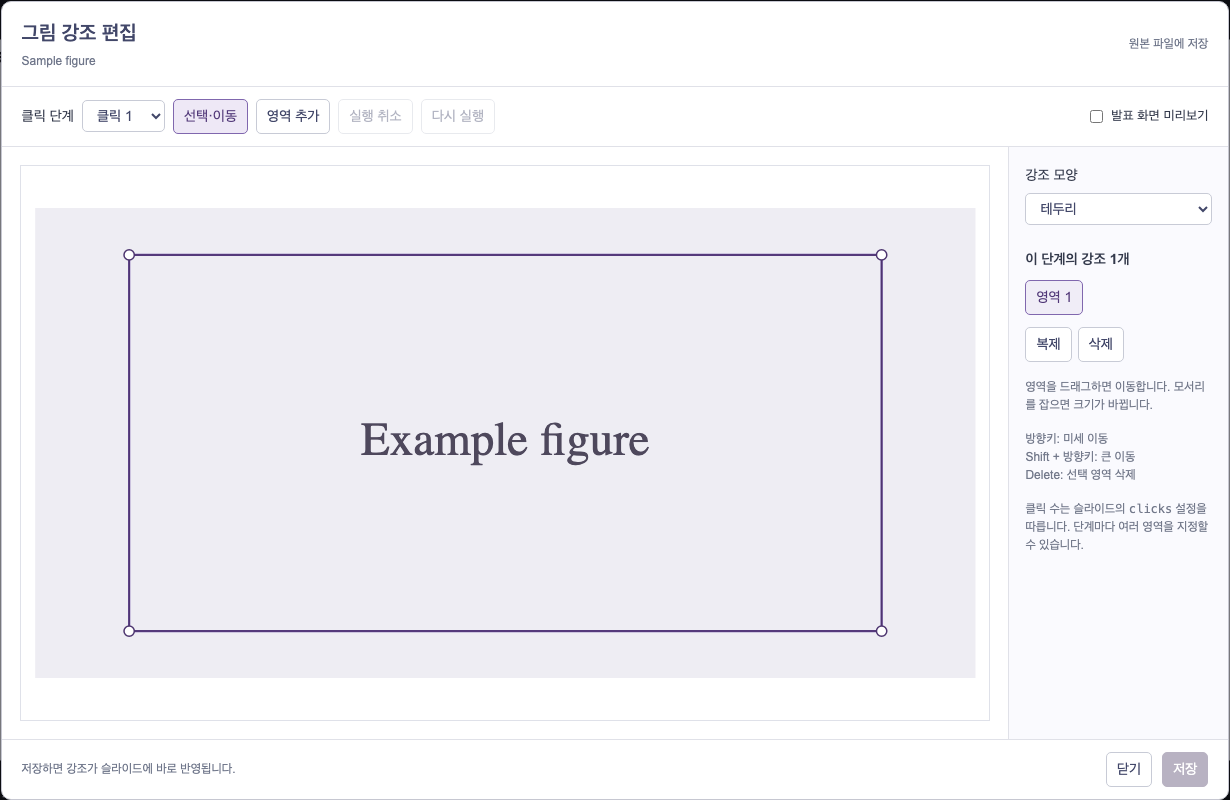
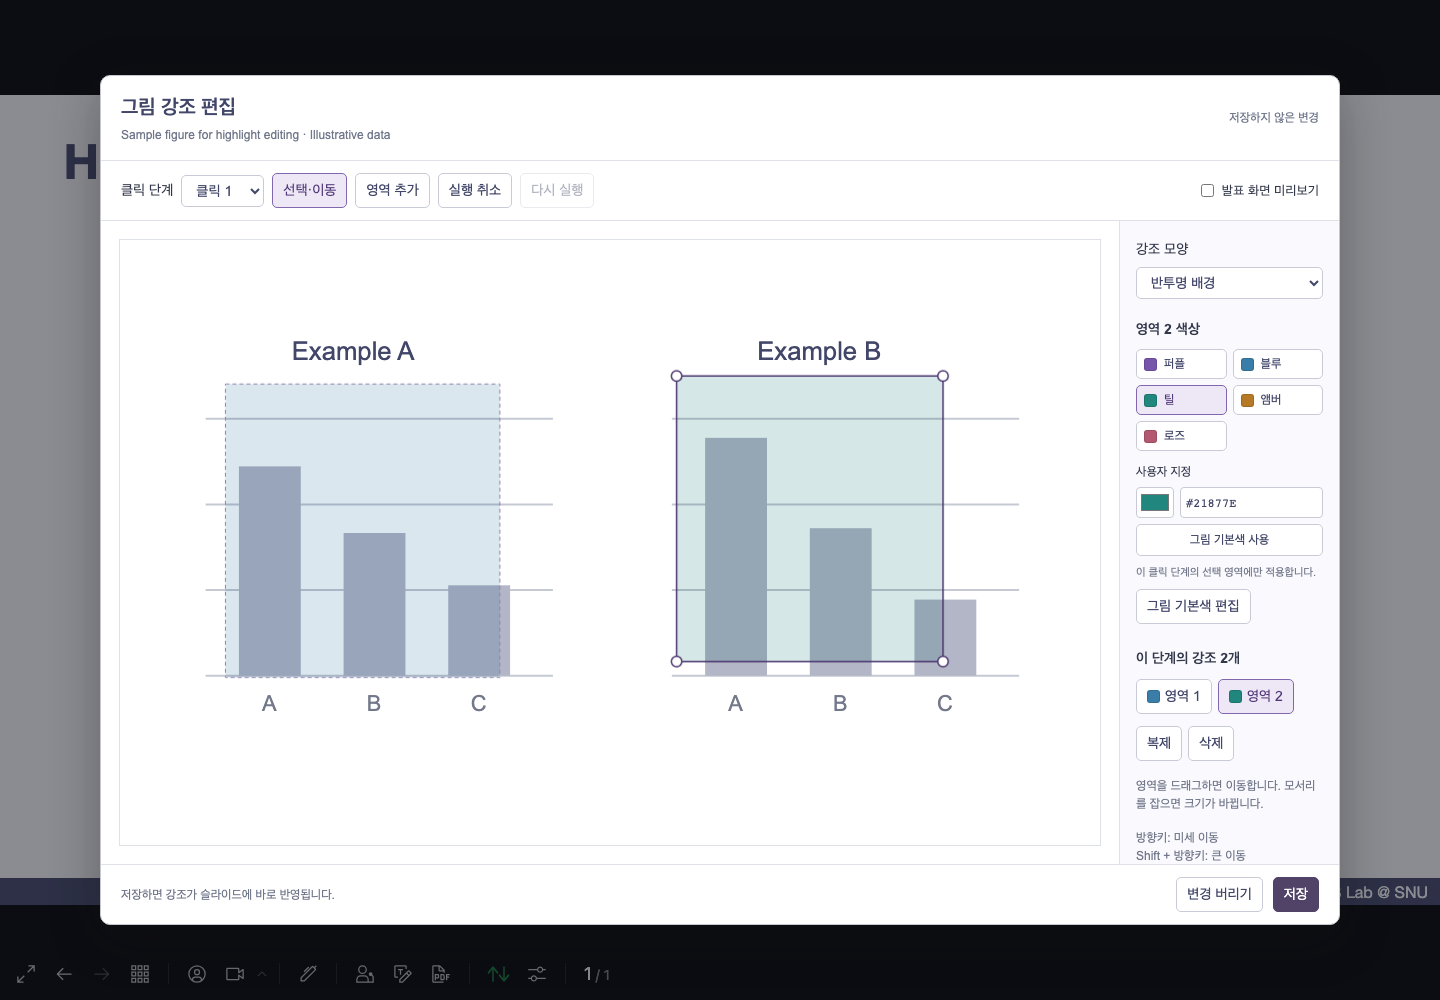
Add preset and custom colors to figure highlights

diff --git a/editor/FigureEditor.vue b/editor/FigureEditor.vue
@@ -1,12 +1,16 @@
 <script setup>
 import { computed, nextTick, onBeforeUnmount, onMounted, ref } from 'vue'
+import { DEFAULT_HIGHLIGHT, HIGHLIGHT_PRESETS, isHighlightColor, highlightStyle } from '../lib/colors.mjs'
 const props = defineProps({ slideId:String, src:String, href:String, caption:String, ratio:Number, initialStep:Number })
 const emit = defineEmits(['close', 'saved'])
 const dialog = ref(), svg = ref(), loading = ref(true), saving = ref(false), error = ref('')
 const step = ref(0), selected = ref(-1), mode = ref('select'), style = ref('wash'), regions = ref([[]])
+const focusColor = ref(''), themeColor = ref(DEFAULT_HIGHLIGHT)
+const currentColor = computed(() => boxes.value[selected.value]?.[4] || focusColor.value || themeColor.value)
+const inheritsColor = computed(() => selected.value >= 0 ? !boxes.value[selected.value]?.[4] : !focusColor.value)
 const revision = ref(''), baseline = ref(''), history = ref([]), future = ref([]), preview = ref(false)
 let gesture = null, restoreFocus, previousOverflow
-const state = () => JSON.stringify({ regions:regions.value, focusStyle:style.value })
+const state = () => JSON.stringify({ regions:regions.value, focusStyle:style.value, focusColor:focusColor.value })
 const dirty = computed(() => !loading.value && state() !== baseline.value)
 const boxes = computed(() => regions.value[step.value] || [])
 const endpoint = '/__slidev-authoring/annotations', minimum = .25
@@ -15,11 +19,27 @@ const clone = value => JSON.parse(JSON.stringify(value))
 function remember(snapshot = state()) { history.value.push(snapshot); future.value = [] }
 function restore(snapshot) {
   const value = JSON.parse(snapshot)
-  regions.value = value.regions; style.value = value.focusStyle; selected.value = -1
+  regions.value = value.regions; style.value = value.focusStyle; focusColor.value = value.focusColor || ''; selected.value = -1
 }
 function undo() { if (history.value.length) { future.value.push(state()); restore(history.value.pop()) } }
 function redo() { if (future.value.length) { history.value.push(state()); restore(future.value.pop()) } }
 function changeStyle(value) { remember(); style.value = value }
+function changeColor(value) {
+  if (!isHighlightColor(value)) { error.value = '색상은 #RRGGBB 형식으로 입력하세요.'; return }
+  error.value = ''
+  const color = value.toUpperCase()
+  if (selected.value >= 0 ? boxes.value[selected.value][4] === color : focusColor.value === color) return
+  remember()
+  if (selected.value >= 0) boxes.value[selected.value][4] = color
+  else focusColor.value = color
+}
+function resetColor() {
+  if (inheritsColor.value) return
+  remember(); error.value = ''
+  if (selected.value >= 0) boxes.value[selected.value].splice(4)
+  else focusColor.value = ''
+}
+function setRect(index, coordinates) { boxes.value[index] = [...coordinates, ...boxes.value[index].slice(4)] }
 function remove() {
   if (selected.value < 0) return
   remember(); regions.value[step.value].splice(selected.value, 1); selected.value = -1
@@ -48,16 +68,16 @@ function start(event, index = -1, handle = null) {
 function move(event) {
   if (!gesture) return
   const [x, y] = position(event), g = gesture, [sx, sy] = g.at
-  if (g.type === 'draw') boxes.value[g.index] = [Math.min(x, sx), Math.min(y, sy), Math.max(minimum, Math.abs(x - sx)), Math.max(minimum, Math.abs(y - sy))]
+  if (g.type === 'draw') setRect(g.index, [Math.min(x, sx), Math.min(y, sy), Math.max(minimum, Math.abs(x - sx)), Math.max(minimum, Math.abs(y - sy))])
   else {
     const [a, b, w, h] = g.rect
-    if (g.type === 'move') boxes.value[g.index] = [Math.max(-1.5, Math.min(101.5 - w, a + x - sx)), Math.max(-1.5 * props.ratio, Math.min(100 + 1.5 * props.ratio - h, b + y - sy)), w, h]
+    if (g.type === 'move') setRect(g.index, [Math.max(-1.5, Math.min(101.5 - w, a + x - sx)), Math.max(-1.5 * props.ratio, Math.min(100 + 1.5 * props.ratio - h, b + y - sy)), w, h])
     else {
       const left = g.type.includes('w') ? Math.min(a + w - minimum, x) : a
       const right = g.type.includes('e') ? Math.max(a + minimum, x) : a + w
       const top = g.type.includes('n') ? Math.min(b + h - minimum, y) : b
       const bottom = g.type.includes('s') ? Math.max(b + minimum, y) : b + h
-      boxes.value[g.index] = [left, top, right - left, bottom - top]
+      setRect(g.index, [left, top, right - left, bottom - top])
     }
   }
 }
@@ -97,8 +117,8 @@ async function save() {
   if (loading.value || saving.value || !dirty.value) return
   saving.value = true; error.value = ''
   try {
-    const payload = { slideId:props.slideId, src:props.src, revision:revision.value, ratio:props.ratio, focusStyle:style.value,
-      regions:regions.value.map(stage => stage.map(r => r.map(n => Math.round(n*1000)/1000))) }
+    const payload = { slideId:props.slideId, src:props.src, revision:revision.value, ratio:props.ratio, focusStyle:style.value, ...(focusColor.value ? {focusColor:focusColor.value} : {}),
+      regions:regions.value.map(stage => stage.map(r => r.map((n, i) => i < 4 ? Math.round(n*1000)/1000 : n))) }
     const response = await fetch(endpoint, { method:'POST', headers:{'Content-Type':'application/json'}, body:JSON.stringify(payload) })
     const result = await response.json()
     if (!response.ok) throw new Error(result.error)
@@ -108,6 +128,8 @@ async function save() {
 }
 function unload(event) { if (dirty.value) { event.preventDefault(); event.returnValue = '' } }
 onMounted(async () => {
+  const themed = getComputedStyle(document.documentElement).getPropertyValue('--authoring-highlight').trim()
+  if (isHighlightColor(themed)) themeColor.value = themed
   restoreFocus = document.activeElement; previousOverflow = document.body.style.overflow
   document.body.style.overflow = 'hidden'; window.addEventListener('beforeunload', unload)
   await nextTick(); dialog.value.focus()
@@ -118,6 +140,7 @@ onMounted(async () => {
     revision.value = result.revision
     const original = result.entry?.regions || [[]]
     regions.value = Array.from({length:result.steps}, (_, i) => clone(original[Math.min(i, original.length-1)] || []))
+    focusColor.value = result.entry?.focusColor || ''
     style.value = result.entry?.focusStyle || 'wash'; step.value = Math.min(props.initialStep || 0, result.steps-1)
     baseline.value = state(); loading.value = false
   } catch (e) { error.value = e.message }
@@ -142,7 +165,7 @@ onBeforeUnmount(() => { window.removeEventListener('beforeunload', unload); docu
           <svg ref="svg" :viewBox="`-1.5 -1.5 103 ${100 / ratio + 3}`" role="img" :aria-label="caption" @pointerdown="start($event)" @pointermove="move" @pointerup="end" @pointercancel="end">
             <image :href="href" x="0" y="0" width="100" :height="100 / ratio" preserveAspectRatio="none" />
             <g v-for="(r, i) in boxes" :key="i">
-              <rect class="editor-highlight" :class="{frame:style==='frame'}" :x="r[0]" :y="r[1]/ratio" :width="r[2]" :height="r[3]/ratio" @pointerdown="start($event, i)" />
+              <rect class="editor-highlight" :class="{frame:style==='frame'}" :style="highlightStyle(r, focusColor)" :x="r[0]" :y="r[1]/ratio" :width="r[2]" :height="r[3]/ratio" @pointerdown="start($event, i)" />
               <rect v-if="!preview" class="editor-selection" :class="{selected:i===selected}" :x="r[0]" :y="r[1]/ratio" :width="r[2]" :height="r[3]/ratio" @pointerdown="start($event, i)" />
               <circle v-for="h in (!preview && i===selected ? handles : [])" :key="h" class="editor-handle" :cx="handlePoint(r,h)[0]" :cy="handlePoint(r,h)[1]" r=".55" @pointerdown="start($event,i,h)" />
             </g>
@@ -151,9 +174,23 @@ onBeforeUnmount(() => { window.removeEventListener('beforeunload', unload); docu
         </div>
         <aside>
           <label>강조 모양 <select :value="style" :disabled="loading || saving" @change="changeStyle($event.target.value)"><option value="wash">반투명 배경</option><option value="frame">테두리</option></select></label>
+          <fieldset class="color-controls" :disabled="loading || saving">
+            <legend>{{ selected >= 0 ? `영역 ${selected + 1} 색상` : '그림 기본색' }}</legend>
+            <div class="color-presets">
+              <button v-for="preset in HIGHLIGHT_PRESETS" :key="preset.color" :aria-label="`${preset.name} 강조색`" :aria-pressed="!inheritsColor && currentColor.toUpperCase() === preset.color" :class="{chosen:!inheritsColor && currentColor.toUpperCase() === preset.color}" @click="changeColor(preset.color)"><i :style="{background:preset.color}" />{{ preset.name }}</button>
+            </div>
+            <label class="custom-color">사용자 지정</label>
+            <div class="color-inputs">
+              <input type="color" aria-label="사용자 지정 색상 선택" :value="currentColor" @change="changeColor($event.target.value)" />
+              <input type="text" aria-label="강조색 HEX" :value="currentColor" maxlength="7" spellcheck="false" @change="changeColor($event.target.value)" />
+            </div>
+            <button class="inherit-color" :class="{chosen:inheritsColor}" @click="resetColor">{{ selected >= 0 ? '그림 기본색 사용' : '테마 색상 사용' }}</button>
+            <p>{{ selected >= 0 ? '이 클릭 단계의 선택 영역에만 적용합니다.' : '모든 단계에서 별도 색상이 없는 영역에 적용합니다.' }}</p>
+            <button v-if="selected >= 0" @click="selected=-1">그림 기본색 편집</button>
+          </fieldset>
           <h3>이 단계의 강조 {{ boxes.length }}개</h3>
           <p v-if="!boxes.length">강조가 없는 단계입니다.<br/>“영역 추가”를 누르고 그림 위를 드래그하세요.</p>
-          <div class="region-list"><button v-for="(_, i) in boxes" :key="i" :class="{chosen:selected===i}" @click="selected=i; mode='select'; preview=false">영역 {{ i+1 }}</button></div>
+          <div class="region-list"><button v-for="(r, i) in boxes" :key="i" :class="{chosen:selected===i}" @click="selected=i; mode='select'; preview=false"><i class="region-swatch" :style="{background:r[4] || focusColor || themeColor}" />영역 {{ i+1 }}</button></div>
           <div class="selection-actions"><button :disabled="selected<0 || saving" @click="duplicate">복제</button><button :disabled="selected<0 || saving" @click="remove">삭제</button></div>
           <p>영역을 드래그하면 이동합니다. 모서리를 잡으면 크기가 바뀝니다.</p>
           <p>방향키: 미세 이동<br/>Shift + 방향키: 큰 이동<br/>Delete: 선택 영역 삭제</p>
@@ -184,8 +221,8 @@ button:focus-visible,select:focus-visible,input:focus-visible { outline:2px soli
 .editor-canvas { margin:18px;position:relative;min-height:0;min-width:0;background:#fff;border:1px solid #dfe1e9; }
 .editor-canvas svg { width:100%;height:100%;display:block;touch-action:none;user-select:none; }
 .editor-canvas.drawing { cursor:crosshair; }
-.editor-highlight { fill:#7655ab;fill-opacity:.19;stroke:none;mix-blend-mode:multiply;rx:.45; }
-.editor-highlight.frame { fill:none;stroke:#7655ab;stroke-width:2.2px;vector-effect:non-scaling-stroke; }
+.editor-highlight { fill:var(--region-highlight,var(--authoring-highlight,#7655ab));fill-opacity:.19;stroke:none;mix-blend-mode:multiply;rx:.45; }
+.editor-highlight.frame { fill:none;stroke:var(--region-highlight,var(--authoring-highlight,#7655ab));stroke-width:2.2px;vector-effect:non-scaling-stroke; }
 .editor-selection { fill:transparent;stroke:#9181ac;stroke-width:1px;stroke-dasharray:4 3;vector-effect:non-scaling-stroke;cursor:move; }
 .drawing .editor-selection { cursor:crosshair; }
 .editor-selection.selected { stroke:#4d356f;stroke-width:1.5px;stroke-dasharray:none; }
@@ -193,6 +230,19 @@ button:focus-visible,select:focus-visible,input:focus-visible { outline:2px soli
 .editor-loading { position:absolute;inset:0;display:grid;place-items:center;background:#ffffffe0; }
 aside { padding:18px 16px;border-left:1px solid #e0e1e8;overflow:auto;background:#fafafe; }
 aside label { display:block; }aside select { display:block;margin-top:7px;width:100%; }
+.color-controls { border:0;padding:0;margin:20px 0 0;min-width:0; }
+.color-controls legend { font-weight:600;margin-bottom:9px; }
+.color-presets { display:grid;grid-template-columns:1fr 1fr;gap:6px; }
+.color-presets button { display:flex;align-items:center;gap:7px;padding:5px 7px;font-size:12px; }
+.color-presets i,.region-swatch { display:inline-block;width:13px;height:13px;border-radius:3px;border:1px solid #0002;flex:none; }
+.custom-color { margin-top:12px;font-size:12px; }
+.color-inputs { display:flex;gap:6px;margin:6px 0; }
+.color-inputs input { border:1px solid #c8cbd6;border-radius:4px;height:31px;min-width:0;background:white;color:#424769; }
+.color-inputs input[type=color] { width:38px;padding:2px;flex:none;cursor:pointer; }
+.color-inputs input[type=text] { width:100%;padding:5px;font:12px monospace; }
+.inherit-color { width:100%;font-size:12px; }
+.color-controls p { margin:8px 0;font-size:11px; }
+.region-list button { display:flex;gap:5px;align-items:center; }
 aside h3 { margin:24px 0 10px;font-size:14px;font-weight:600; }
 aside p { font-size:12px;color:#73798b;margin:16px 0; }
 .region-list { display:flex;gap:6px;flex-wrap:wrap;max-height:175px;overflow:auto; }

diff --git a/components/AuthoringFigure.vue b/components/AuthoringFigure.vue
@@ -2,6 +2,7 @@
 import { computed, defineAsyncComponent, ref, watch } from 'vue'
 import { useSlideContext } from '@slidev/client'
 import { annotations } from 'virtual:slidev-authoring/data'
+import { highlightStyle } from '../lib/colors.mjs'
 const props = defineProps({ src:String, alt:String, caption:String })
 const { $clicks, $frontmatter, $renderContext } = useSlideContext()
 const saved = ref(null), naturalRatio = ref(1), editing = ref(false), savedNotice = ref(false)
@@ -29,7 +30,7 @@ function finish(entry) { saved.value = entry; savedNotice.value = true; editing.
     <div class="authoring-image-box">
       <svg class="focus-overlay" :viewBox="`-1.5 -1.5 103 ${100 / ratio + 3}`" :data-focus-step="$clicks" :data-focus-style="entry?.focusStyle || 'wash'" role="img" :aria-label="alt">
         <image :href="href" x="0" y="0" width="100" :height="100 / ratio" preserveAspectRatio="none" />
-        <rect v-for="(r, i) in active" :key="`${$clicks}-${i}`" class="focus-border" :x="r[0]" :y="r[1] / ratio" :width="r[2]" :height="r[3] / ratio" />
+        <rect v-for="(r, i) in active" :key="`${$clicks}-${i}`" class="focus-border" :style="highlightStyle(r, entry?.focusColor)" :x="r[0]" :y="r[1] / ratio" :width="r[2]" :height="r[3] / ratio" />
       </svg>
       <button v-if="canEdit" class="figure-edit-button" title="Edit this figure's highlights" @click.stop="editing = true; savedNotice = false">{{ savedNotice ? '저장됨 · 강조 편집' : '그림 강조 편집' }}</button>
     </div>
@@ -45,8 +46,8 @@ function finish(entry) { saved.value = entry; savedNotice.value = true; editing.
 figcaption { flex:none; text-align:center; font-size:var(--authoring-caption-size, 15px); color:var(--authoring-caption-color, #656565); padding-top:var(--authoring-caption-gap, 8px); }
 
 .focus-overlay { position:absolute; inset:0; width:100%; height:100%; pointer-events:none; }
-.focus-border { vector-effect:non-scaling-stroke; rx:.45; fill:var(--authoring-highlight, #7655AB); fill-opacity:.19; stroke:none; mix-blend-mode:multiply; }
-.focus-overlay[data-focus-style="frame"] .focus-border { fill:none; stroke:var(--authoring-highlight, #7655AB); stroke-width:2.2px; stroke-opacity:.9; }
+.focus-border { vector-effect:non-scaling-stroke; rx:.45; fill:var(--region-highlight, var(--authoring-highlight, #7655AB)); fill-opacity:.19; stroke:none; mix-blend-mode:multiply; }
+.focus-overlay[data-focus-style="frame"] .focus-border { fill:none; stroke:var(--region-highlight, var(--authoring-highlight, #7655AB)); stroke-width:2.2px; stroke-opacity:.9; }
 .figure-edit-button { position:absolute; right:0; top:0; padding:6px 10px; border:1px solid #c3bed4; border-radius:5px; background:#fff; color:#514268; font:13px Arial,sans-serif; opacity:0; cursor:pointer; z-index:3; }
 .authoring-figure:hover .figure-edit-button, .figure-edit-button:focus-visible { opacity:1; }
 @media print { .figure-edit-button { display:none; } }

diff --git a/README.md b/README.md
@@ -79,7 +79,8 @@ clicks: 1
 2. Hover over the figure and select **그림 강조 편집**.
 3. Choose the click step, then select an existing region or add one.
 4. Drag to move a region; use its corner handles to resize it.
-5. Preview the result and select **저장** to save.
+5. Choose a preset or a custom color for the selected region. Select **그림 기본색 편집** to change the default across click steps.
+6. Preview the result and select **저장** to save.
 
 ![Figure editor showing a selected region, click-step selector, preview, and save controls](guide/images/figure-editor.png)
 
@@ -92,10 +93,31 @@ clicks: 1
 | **실행 취소** / **다시 실행** | Undo / redo |
 | **발표 화면 미리보기** | Preview without editing handles |
 | **강조 모양** | Choose a translucent fill or an outline |
+| **영역 색상** / **그림 기본색** | Use purple, blue, teal, amber, rose, or a custom color |
+| **사용자 지정** | Use the color picker or enter a six-digit `#RRGGBB` value |
+| **그림 기본색 사용** / **테마 색상 사용** | Remove a region override / restore the theme default |
 | **저장** / **변경 버리기** | Save / discard changes |
 | Arrow keys / Shift + arrow keys | Move a region in small / larger increments |
 
 Saving updates `annotations.json`. A stable `contentId` keeps highlights attached to a slide when it is reordered. Concurrent edits to the same figure are checked before saving.
+
+Colors can distinguish different roles within the same figure. A region color affects only that region in that click step. A figure default affects all regions without an override, across all steps. Changing colors supports undo/redo and keeps coordinates unchanged. Existing annotations inherit the theme color.
+
+### Annotation colors
+
+The original `[x, y, width, height]` regions remain valid. A fifth value overrides a region's color; optional `focusColor` sets the figure default. Colors are six-digit hex values. Both fills and outlines use them.
+
+```json
+{
+  "example": {
+    "src": "/figures/example.png",
+    "ratio": 2,
+    "focusStyle": "wash",
+    "focusColor": "#7655AB",
+    "regions": [[], [[10, 20, 30, 40, "#21877E"], [55, 20, 30, 40]]]
+  }
+}
+```
 
 ### Editing scope
 
